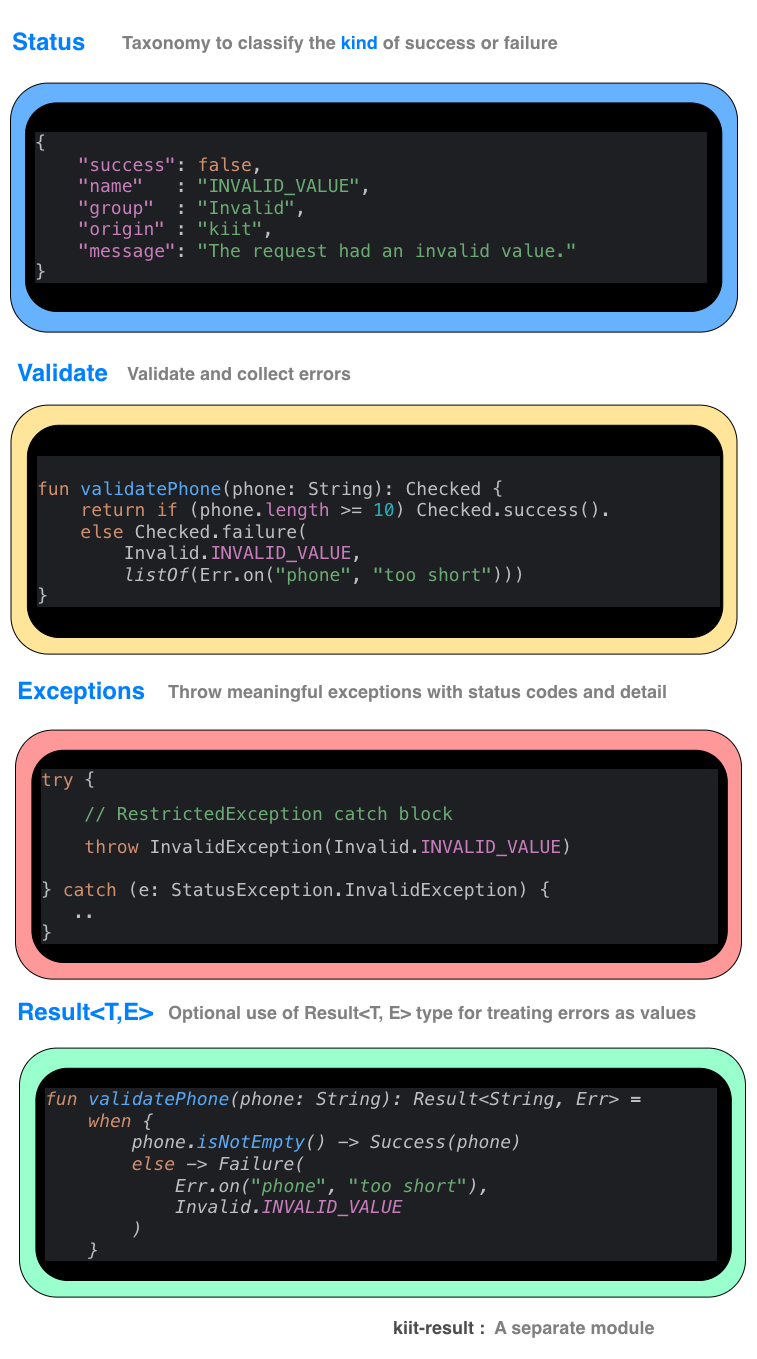
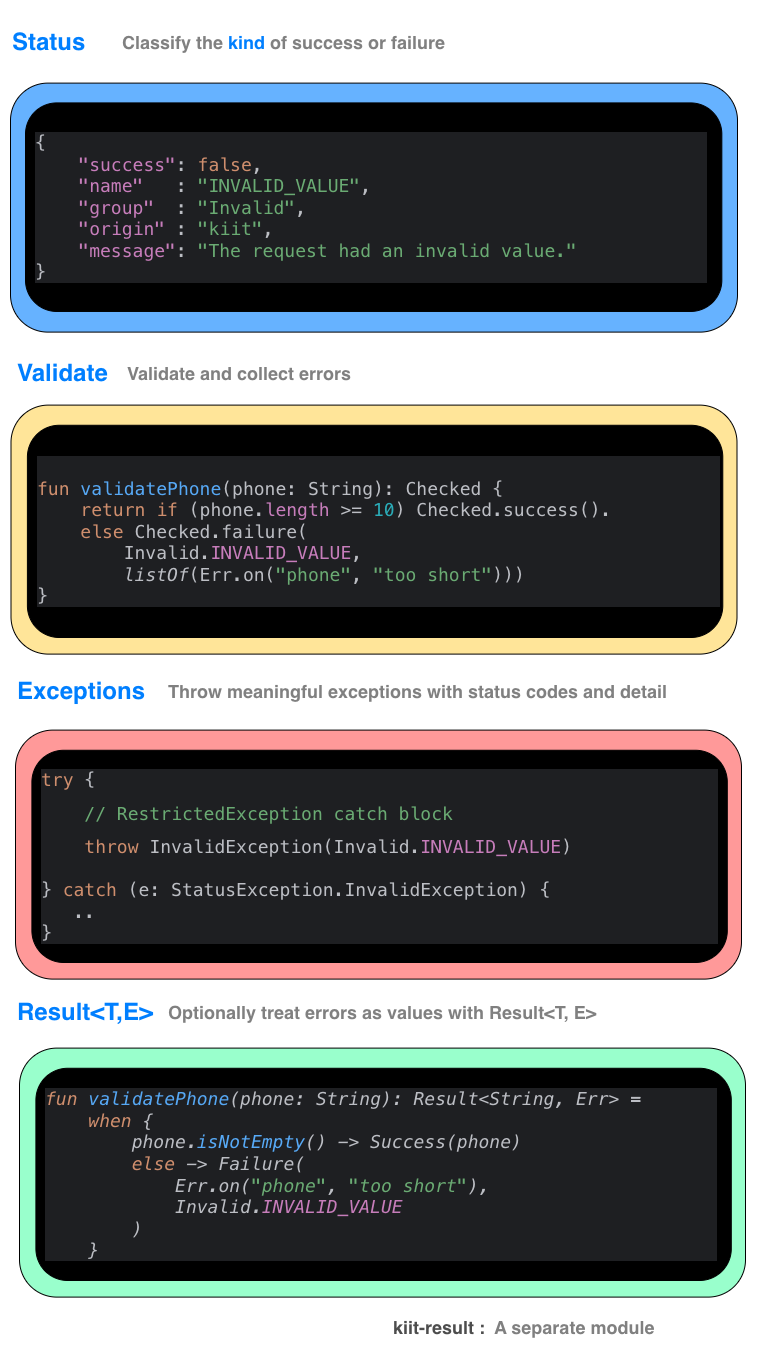
fix: diagrams and readme

Changed region(s): [[0.3342, 0.7417, 0.9115, 0.7726], [0.1823, 0.0309, 0.6077, 0.0618], [0.6684, 0.0309, 0.6988, 0.0618]]

diff --git a/README.md b/README.md
@@ -17,6 +17,23 @@ Part of [Kiit](https://www.kiit.dev) · [Docs](https://www.kiit.dev/codes) · [B
 
 ![Kiit Codes overview](./assets/kiit-codes-overview.png)
 
+## 📚 Table of Contents
+## 📚 Table of Contents
+
+| # | | Topic | Description |
+|---:|:---:|---|---|
+| 1 | 💡 | [Why](#why) | Problems Codes is designed to solve |
+| 2 | 🚀 | [Start](#start) | Installation and a quick example |
+| 3 | 🗂 | [Taxonomy](#taxonomy) | The Status → Group → Code model |
+| 4 | 🧩 | [Extensibility](#extensibility) | Built-in and custom domain codes |
+| 5 | 🔀 | [Protocols](#protocols) | HTTP, gRPC, and custom protocol mappings |
+| 6 | ⚙ | [Usage](#usage) | Status, validation, exceptions, and Result |
+| 7 | 🗺 | [Roadmap](#roadmap) | Planned improvements and future work |
+| 8 | 📖 | [Learn More](#learn-more) | Deeper documentation and design topics |
+| 9 | 📋 | [Requirements](#requirements) | Platforms and dependencies |
+| 10 | 🤝 | [Contributing](#contributing) | Build, test, and contribute |
+| 11 | 📄 | [License](#license) | Apache 2.0 license |
+
 ## Why
 Applications need to communicate a simple idea consistently: **what happened?**
 
@@ -25,7 +42,7 @@ In practice, success and failure are often modeled differently across domains, a
 |  # | Problem            | Description                                                             |
 | -: |--------------------|-------------------------------------------------------------------------|
 |  1 | **Classification** | No shared taxonomy for modeling success and failure.                    |
-|  2 | **Consistency**    | Lack of consistency across application layers and protocols.            |
+|  2 | **Consistency**    | Outcomes vary across application layers and protocols.                  |
 |  3 | **Fragmentation**  | Validation, exceptions, statuses, and results use different approaches. |
 |  4 | **Boilerplate**    | Similar error types and handling are rebuilt across projects and teams. |
 |  5 | **Specificity**    | Generic errors often lack precise domain meaning.                       |
@@ -33,6 +50,7 @@ In practice, success and failure are often modeled differently across domains, a
 **kiit-codes provides a shared application-level model for these concerns.**
 
 A fixed taxonomy provides consistent classification, extensible codes preserve domain-specific meaning, and protocol mappings keep application outcomes independent from their transport. The same model can then be used across statuses, validation, exceptions, and result types.
+
 ## Start
 
 **Gradle (Kotlin DSL):**
@@ -75,12 +93,11 @@ Built-in codes expose stable fields suitable for application logic, logging, API
 
 Codes uses a three-tier model:
 
-
-| Tier   | Name       | Fixed/Open | Purpose                                                                          |
-|--------|------------|------------|----------------------------------------------------------------------------------|
-| Tier 1 | **Status** | Fixed      | Either Passed / Failed. Just represents a binary true/false for success.         |
-| Tier 2 | **Group**  | Fixed      | Logical groups of Passed / Failed. E.g. Restricted, Invalid, Rejected, Unserved. |
-| Tier 3 | **Code**   | Open       | Specific codes under group. You can create your own custom domain codes here.    |
+| Tier   | Name       | Fixed/Open | Suggested wording                                                      |
+| ------ | ---------- | ---------- | ---------------------------------------------------------------------- |
+| Tier 1 | **Status** | Fixed      | Classifies an outcome as `Passed` or `Failed`.                         |
+| Tier 2 | **Group**  | Fixed      | Classifies the kind of success or failure.                             |
+| Tier 3 | **Code**   | Open       | Identifies a specific outcome using built-in or domain-specific codes. |
 
 **Status → Group → Code**
 
@@ -186,7 +203,7 @@ when (val status = authorize(userId, requesterId)) {
     is Failed -> log.warn("failed: ${status.name} — ${status.message}")
 }
 ```
-![Kiit Codes protocol mappings](./assets/kiit-codes-usage.png)
+![Kiit Codes usage](./assets/kiit-codes-usage.png)
 
 
 ## Roadmap
